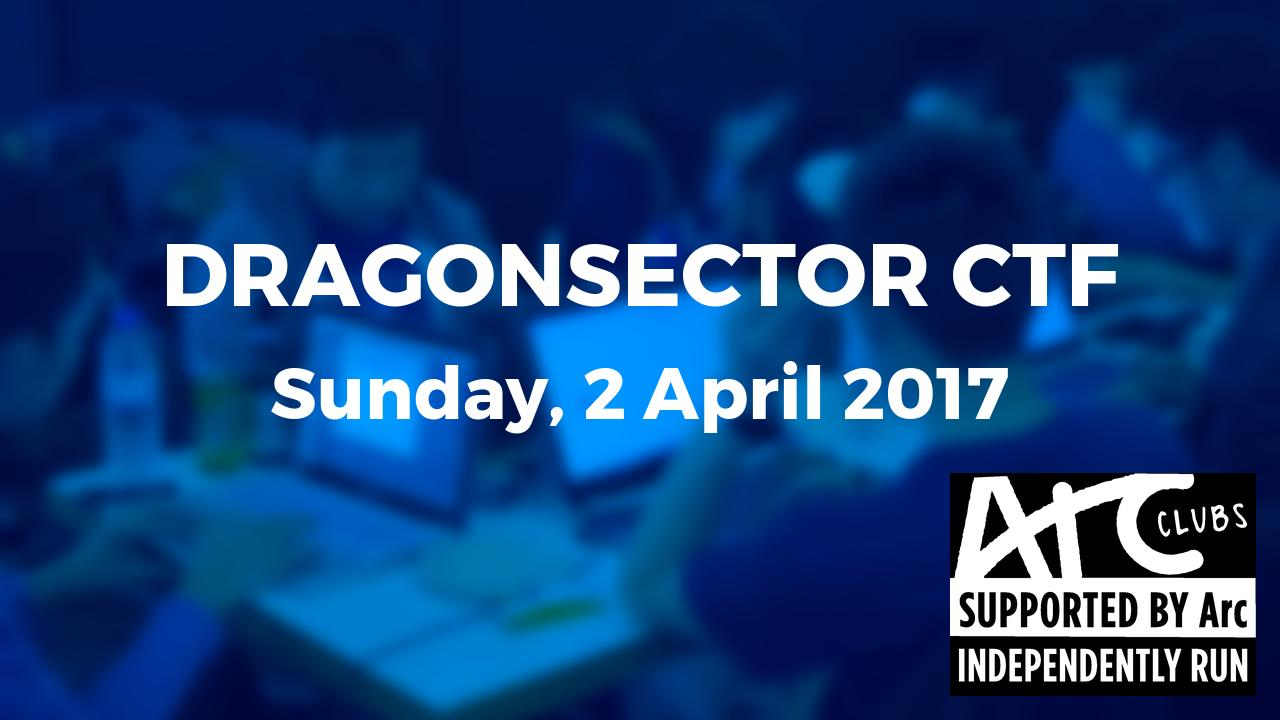
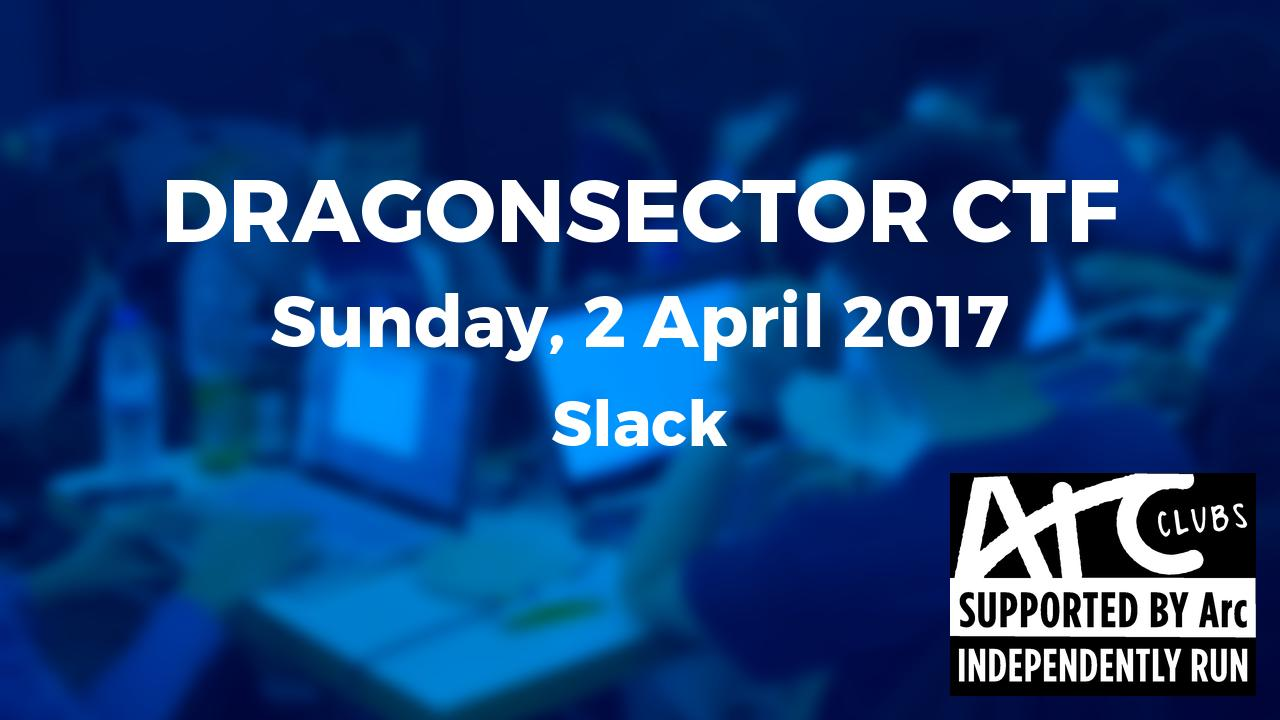
Updated event images

Changed region(s): [[0.125, 0.2444, 0.875, 0.6417]]

diff --git a/event_images.py b/event_images.py
@@ -36,8 +36,9 @@ FONTS_DIR  = "/usr/share/fonts"
 FIRA_MONO  = ImageFont.truetype(path_join(FONTS_DIR, "fira/FiraMono-Medium.otf"), 22)
 FIRA_SANS  = ImageFont.truetype(path_join(FONTS_DIR, "fira/FiraSans-Medium.otf"), 22)
 MONTSERRAT = path_join(FONTS_DIR, "julietaula-montserrat/Montserrat-Bold.ttf")
-MONTSERRAT_TITLE = ImageFont.truetype(MONTSERRAT, 88)
-MONTSERRAT_DATE  = ImageFont.truetype(MONTSERRAT, 72)
+MONTSERRAT_TITLE     = ImageFont.truetype(MONTSERRAT, 88)
+MONTSERRAT_DATE      = ImageFont.truetype(MONTSERRAT, 72)
+MONTSERRAT_LOCATION  = ImageFont.truetype(MONTSERRAT, 64)
 
 IMAGE_DIR     = "./assets/img"
 CTF_BACK      = path_join(IMAGE_DIR, "ctf_back.png")
@@ -135,14 +136,20 @@ def render_header(event):
     # Get event title
     title_text = event["title"].upper()
     title_size = MONTSERRAT_TITLE.getsize(title_text)
-    title_pos = shift(center(image.size, title_size), (0, -96))
+    title_pos = shift(center(image.size, title_size), (0, -160))
     draw.text(title_pos, title_text, font=MONTSERRAT_TITLE)
 
     # Get event date
     date_text = date_string(event["start"])
     date_size = MONTSERRAT_DATE.getsize(date_text)
-    date_pos = shift(center(image.size, date_size), (0, 32))
+    date_pos = shift(center(image.size, date_size), (0, -40))
     draw.text(date_pos, date_text, font=MONTSERRAT_DATE)
+
+    # Get event location
+    event_text = event["location"]
+    event_size = MONTSERRAT_LOCATION.getsize(event_text)
+    event_pos = shift(center(image.size, event_size), (0, 56))
+    draw.text(event_pos, event_text, font=MONTSERRAT_LOCATION)
 
     # Add ARC logo
     arc_logo = get_logo(ARC_LOGO, ARC_LOGO_SCALE)
